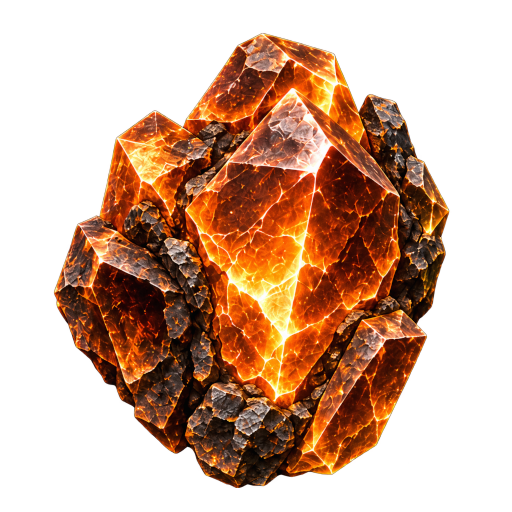
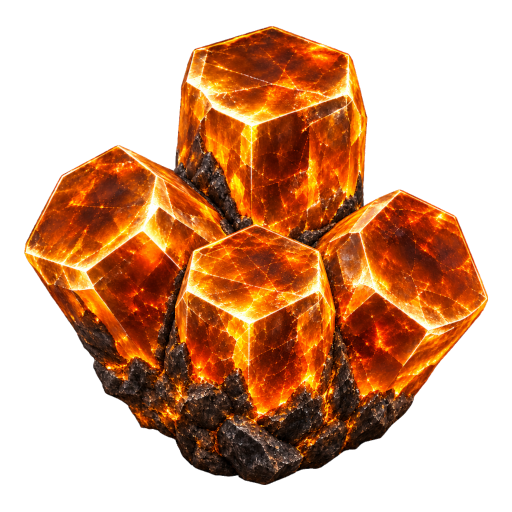
feat: 중화기 젬을 네 기둥 원석 아이콘으로 교체

diff --git a/DESIGNS.md b/DESIGNS.md
@@ -28,7 +28,7 @@
 | 스탯·젬 링크 전환 | 전체 폭을 나눠 쓰는 컴팩트한 연결형 탭. 태그형 칩으로 대체하지 않는다. | [인벤토리 구현 기록](design/gem_inventory_concepts/README.md) |
 | 포탑의 보유 젬 목록 | A안의 한 줄 인벤토리, 최소 패딩의 묶음, 이름·수량 유지. 가로 스크롤은 가능하되 스크롤바는 숨긴다. 전역 젬 메뉴와 혼동하지 않는다. | [실제 적용 화면](design/gem_inventory_concepts/implemented-a-live.png) |
 | 젬 소켓 | 금속·룬 소켓과 연결부 에셋 사용. 실제 해금 개수·비용은 게임 데이터 기준. 직관적인 소켓 아래 ‘홈 1·홈 2’ 중복 설명은 되살리지 않는다. | [에셋 기록](design/gem_sockets/README.md) |
-| 젬 아이콘 | 기능마다 다른 원석 형태·재질·색을 가진 투명 PNG 사용. 경량화기는 결정 탄환 묶음, 물리 피해는 너클 형태의 밝은 암석인 최종 수정안을 따른다. 보상·인벤토리·소켓은 동일한 공용 에셋을 사용한다. | [승인 시안과 에셋 대응](design/gem_concepts/README.md) |
+| 젬 아이콘 | 기능마다 다른 원석 형태·재질·색을 가진 투명 PNG 사용. 경량화기는 결정 탄환 묶음, 물리 피해는 너클 형태의 밝은 암석, 중화기 증폭은 굵고 뭉툭한 주황색 기둥 네 개가 엇물린 원석을 따른다. 보상·인벤토리·소켓은 동일한 공용 에셋을 사용한다. | [승인 시안과 에셋 대응](design/gem_concepts/README.md) |
 | 젬 보상·구매 카드 설명 | 일반 효과는 대상과 수치·배율을 의미 단위로 줄바꿈하고 단어 내부 분리를 막는다. 폭발·중화기 증폭은 효과명과 수치를 두 줄로 중앙 정렬한 효과 묶음을 사용한다. 효과명·수치 사이와 묶음 사이 간격, 묶음 높이를 통일해 같은 항목의 위치를 맞춘다. 설명은 영역의 위쪽에 붙이고 제목 아래 여백을 작게 유지한다. ‘중화기 전용’은 효과에서 분리하여 설명 맨 아래, 보유 표시 위에 회색 제약 문구로 표시한다. 효과 설명의 기본 글자는 소폭 줄이되 이름·아이콘과 1개 이상 보유 수량은 유지하며, 0개는 회색 상태 표시에 ‘미보유’로 표기한다. 긴 설명과 글자 확대는 설명 영역 높이로 수용한다. | [현재 구현](lib/ui/hud/reward_overlay.dart), [가독성 검증](test/gem_global_rules_ui_test.dart) |
 | 보상 젬 장착 | 젬 선택·포탑 지정·교체·장착 완료 시 전장을 자동 이동·축소하지 않는다. 기존 시점을 유지하고, 설명에 가려진 포탑은 대상 선택 중 직접 드래그해 노출한다. | [인게임 UX 변경 범위](docs/in_game_ux_improvement_design.md) |
 | 포탑 레벨 | 이름 옆 레벨 텍스트와 색상 강조. 과거 금속 배지 시안은 기본안으로 재도입하지 않는다. | [최종 레벨 표시](design/gem_inventory_concepts/level-text-live.png) |

diff --git a/design/gem_concepts/README.md b/design/gem_concepts/README.md
@@ -15,12 +15,12 @@
 | chain | functional-gems-set3-v1.png | 오른쪽 |
 | elementalDamage | functional-gems-set4-v1.png | 가운데 |
 | damageAmplifier | functional-gems-set4-v1.png | 오른쪽 |
-| heavyWeapon | functional-gems-set5-v1.png | 가운데 |
+| heavyWeapon | [heavyWeapon-four-columns-source.png](production/heavyWeapon-four-columns-source.png) | 굵은 주황색 기둥 네 개가 엇물린 원석 |
 | damageOverTime | functional-gems-set5-v1.png | 오른쪽 |
 | lightWeapon | light-physical-v2.png | 왼쪽 |
 | physicalDamage | light-physical-v2.png | 오른쪽 |
 
-최초 연쇄 시안과 set4의 물리 피해, set5의 경량화기는 대체된 역사 자료다.
+최초 연쇄 시안과 set4의 물리 피해, set5의 경량화기·중화기는 대체된 역사 자료다.
 시안의 제목·작은 크기 샘플·배경은 게임 에셋에 포함하지 않는다.
 
 - 최종 게임 경로: `assets/images/gems/<이름>.png`
@@ -36,10 +36,17 @@ ImageGen으로 승인 시안의 개별 젬을 추출했다. 실제 알파가 없
 외부 체크무늬 영역을 분리해 투명화하며, 게임용 축소·여백·PNG 내보내기는 GIMP로 처리한다.
 고해상도 투명 원본은 `production/<이름>-transparent.png`에 보존한다.
 
+중화기 증폭은 2026-09-10 승인된 네 기둥 시안으로 교체했다.
+[생성 프롬프트](production/heavyWeapon-four-columns-prompt.txt)와
+[고해상도 투명 원본](production/heavyWeapon-four-columns-transparent.png)을 보존한다.
+승인 그림을 재생성하지 않고 GIMP에서 외부 연결 배경을 선택해 지우고,
+미세 잔여 픽셀 정리와 자동 크롭 후 464px 이내로 축소하여 512px 투명 캔버스로 내보냈다.
+
 ## 적용 검증
 
 - [공용 GemIcon 14·24·40px 비교](implemented-icons-test.png): 실제 Flutter 위젯의 오프라인 테스트 렌더.
 - [360px 보상 화면](../ux-previews/multiple-projectiles/reward.png): 실제 보상 위젯의 오프라인 테스트 렌더.
 - `test/game_image_assets_test.dart`에서 14종 디코딩·투명 모서리·시작 로딩 확인.
+- [중화기 네 기둥 적용 화면](production/heavyWeapon-four-columns-reward.png): 320px 보상 위젯의 오프라인 테스트 렌더.
 
 Mac 잠금으로 인앱 캡처는 수행하지 못했다. 위 이미지는 실제 앱 스크린샷이 아니다.
